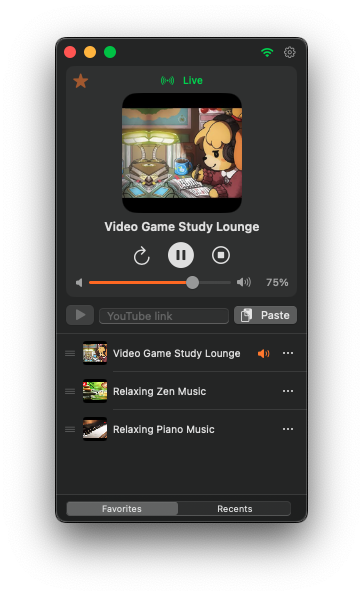
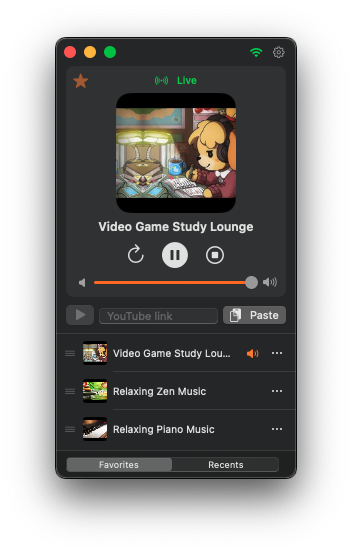
fix: adjust maximum volume limit in NowPlayingCard to 1.0 and uploaded new screenshot. v1.1.2 final

Changed region(s): [[0.125, 0.0616, 0.875, 0.8931]]

diff --git a/Sources/Airwave/Components/NowPlayingCard.swift b/Sources/Airwave/Components/NowPlayingCard.swift
@@ -10,15 +10,20 @@ struct NowPlayingCard: View {
     private var isFavorite: Bool { favorites.contains(url: player.sourceURL) }
     private var volumePercentage: Int { Int((player.volume * 100).rounded()) }
 
-    /// Volume stops every 25%; the slider snaps to one when it gets close.
-    private static let volumeStops: [Float] = [0, 0.25, 0.5, 0.75, 1.0]
-    private static let volumeSnap: Float = 0.04
+    private static let maximumVolume: Float = 1.0
+    private static let volumeSnap: Float = maximumVolume / 50
+    private static let volumeStep: Float = maximumVolume / 4
+    /// Volume stops are generated from the slider range; the slider snaps to a stop when it gets close.
+    private static var volumeStops: [Float] {
+        let stops = stride(from: 0, through: maximumVolume, by: volumeStep).map { $0 }
+        return stops.last == maximumVolume ? stops : stops + [maximumVolume]
+    }
 
     private var volumeBinding: Binding<Float> {
         Binding(
             get: { player.volume },
             set: { newVolume in
-                let clamped = min(max(newVolume, 0), 1)
+                let clamped = min(max(newVolume, 0), Self.maximumVolume)
                 if let stop = Self.volumeStops.first(where: { abs($0 - clamped) <= Self.volumeSnap }) {
                     player.volume = stop
                 } else {
@@ -75,7 +80,7 @@ struct NowPlayingCard: View {
             }
             HStack(alignment: .firstTextBaseline, spacing: 4) {
                 Image(systemName: "speaker.fill").frame(width: 16)
-                Slider(value: volumeBinding, in: 0...1) { isEditing in
+                Slider(value: volumeBinding, in: 0...Self.maximumVolume) { isEditing in
                     isAdjustingVolume = isEditing
                 }
                 .controlSize(.mini)
@@ -93,7 +98,7 @@ struct NowPlayingCard: View {
                                 .background(.regularMaterial, in: Capsule())
                                 .position(
                                     x: thumbRadius
-                                        + CGFloat(player.volume)
+                                        + CGFloat(player.volume / Self.maximumVolume)
                                         * (geometry.size.width - 2 * thumbRadius),
                                     y: -16
                                 )
